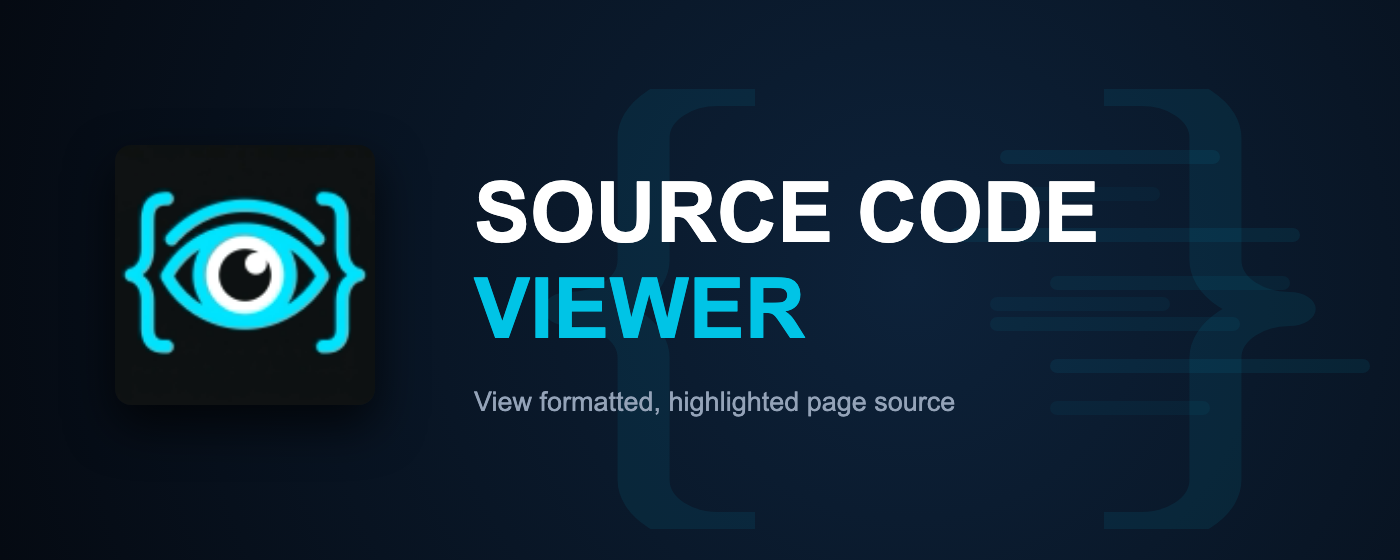
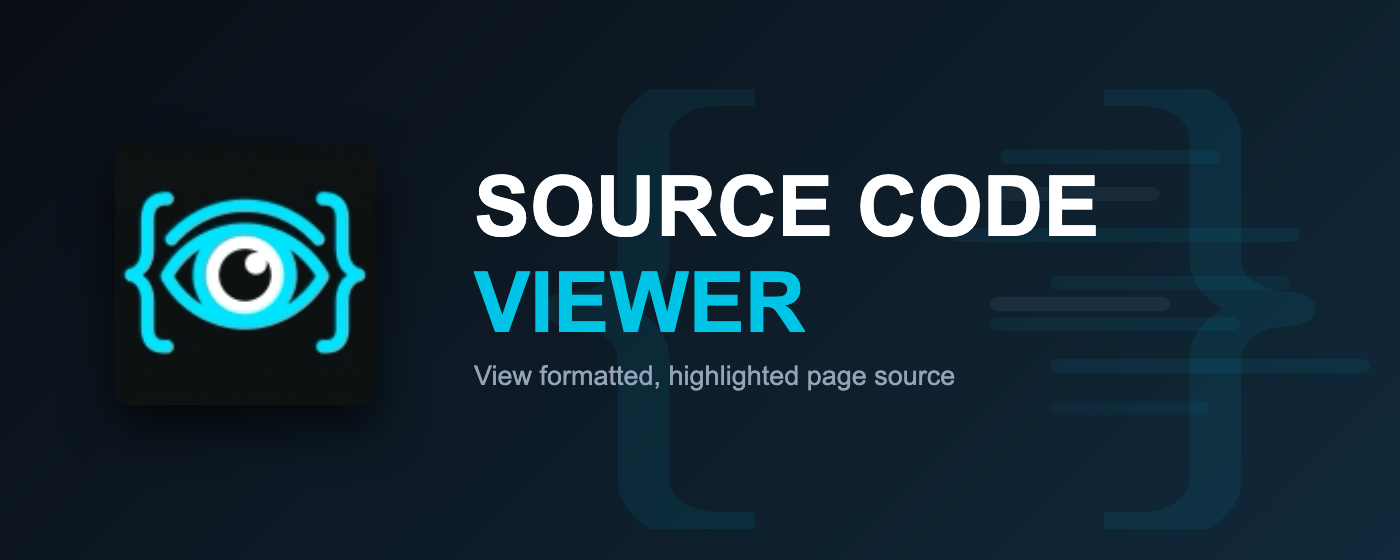
style(promo): update background gradient to linear top-left to bottom-right

Changed region(s): [[0.3379, 0.3036, 0.7986, 0.4554], [0.3379, 0.6375, 0.6757, 0.7589], [0.3379, 0.4857, 0.5836, 0.6071]]

diff --git a/scripts/promo/templates/marquee.html b/scripts/promo/templates/marquee.html
@@ -12,7 +12,7 @@
         width: 1400px;
         height: 560px;
         overflow: hidden;
-        background: radial-gradient(circle at 65% 50%, #0d223a 0%, #050a12 100%);
+        background: linear-gradient(135deg, #0a0e15 0%, #11293a 100%);
         position: relative;
         font-family: Arial, Helvetica, sans-serif;
       }
@@ -123,7 +123,7 @@
       <div class="code-line" style="top: 187px; left: 1000px; width: 160px; opacity: 0.08; background: #94a3b8"></div>
       <div class="code-line" style="top: 228px; left: 950px; width: 350px; opacity: 0.08"></div>
       <div class="code-line" style="top: 276px; left: 1050px; width: 240px; opacity: 0.06"></div>
-      <div class="code-line" style="top: 297px; left: 990px; width: 180px; opacity: 0.10; background: #94a3b8"></div>
+      <div class="code-line" style="top: 297px; left: 990px; width: 180px; opacity: 0.1; background: #94a3b8"></div>
       <div class="code-line" style="top: 317px; left: 990px; width: 250px; opacity: 0.06"></div>
       <div class="code-line" style="top: 359px; left: 1050px; width: 320px; opacity: 0.08"></div>
       <div class="code-line" style="top: 401px; left: 1050px; width: 160px; opacity: 0.05"></div>

diff --git a/scripts/promo/templates/small-promo.html b/scripts/promo/templates/small-promo.html
@@ -12,7 +12,7 @@
         width: 440px;
         height: 280px;
         overflow: hidden;
-        background: radial-gradient(circle at 75% 45%, #0b1a2d 0%, #050a12 100%);
+        background: linear-gradient(135deg, #0a0e15 0%, #11293a 100%);
         display: flex;
         align-items: center;
         justify-content: center;
